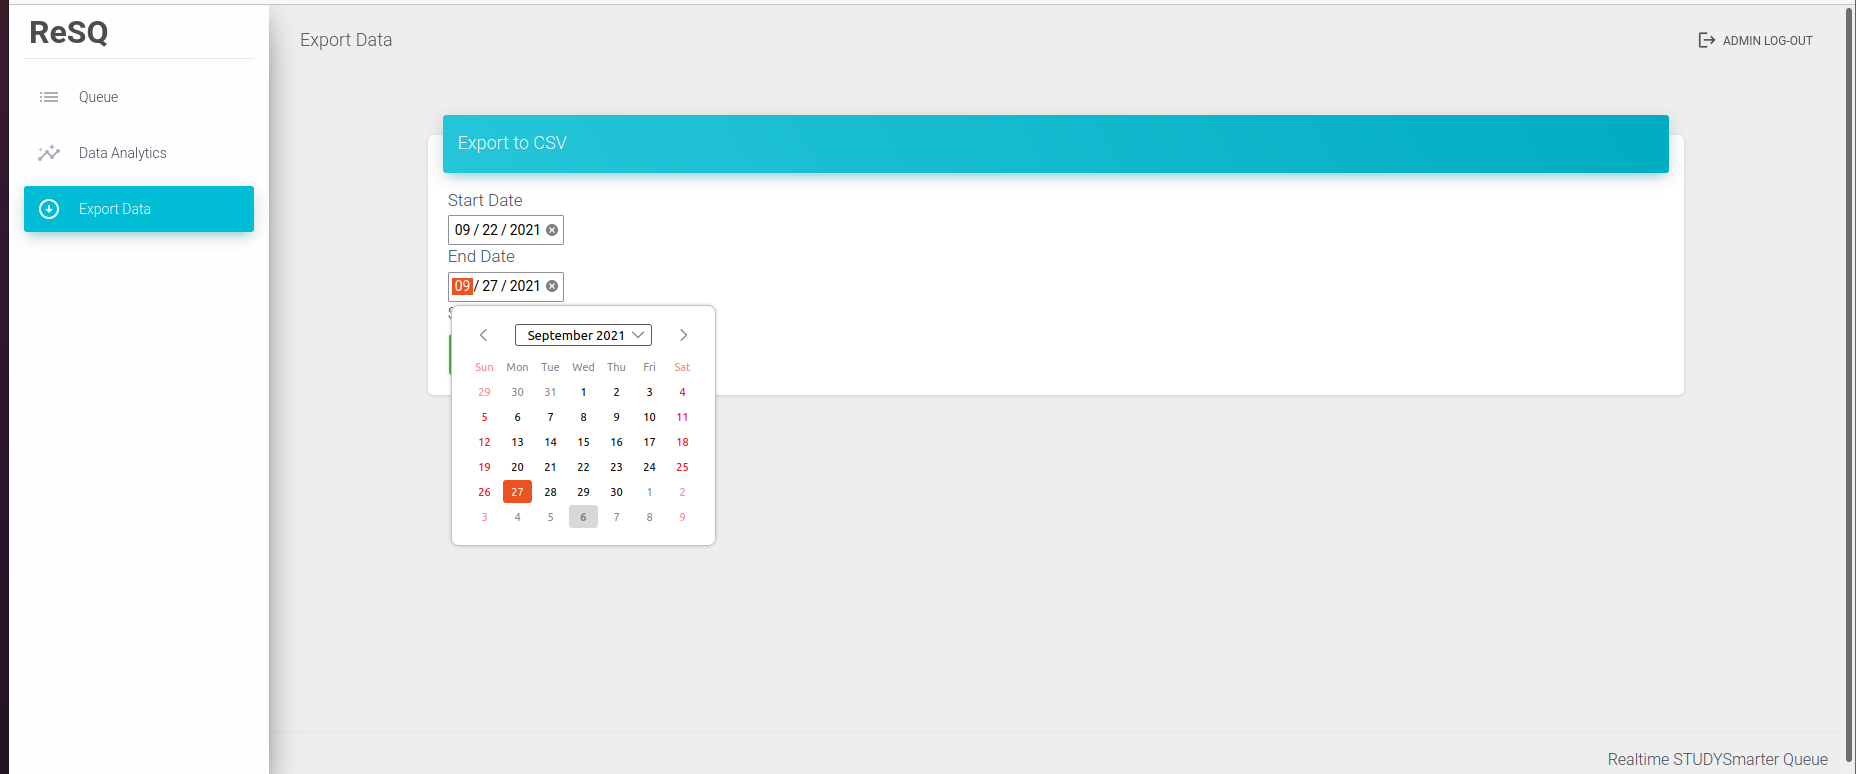
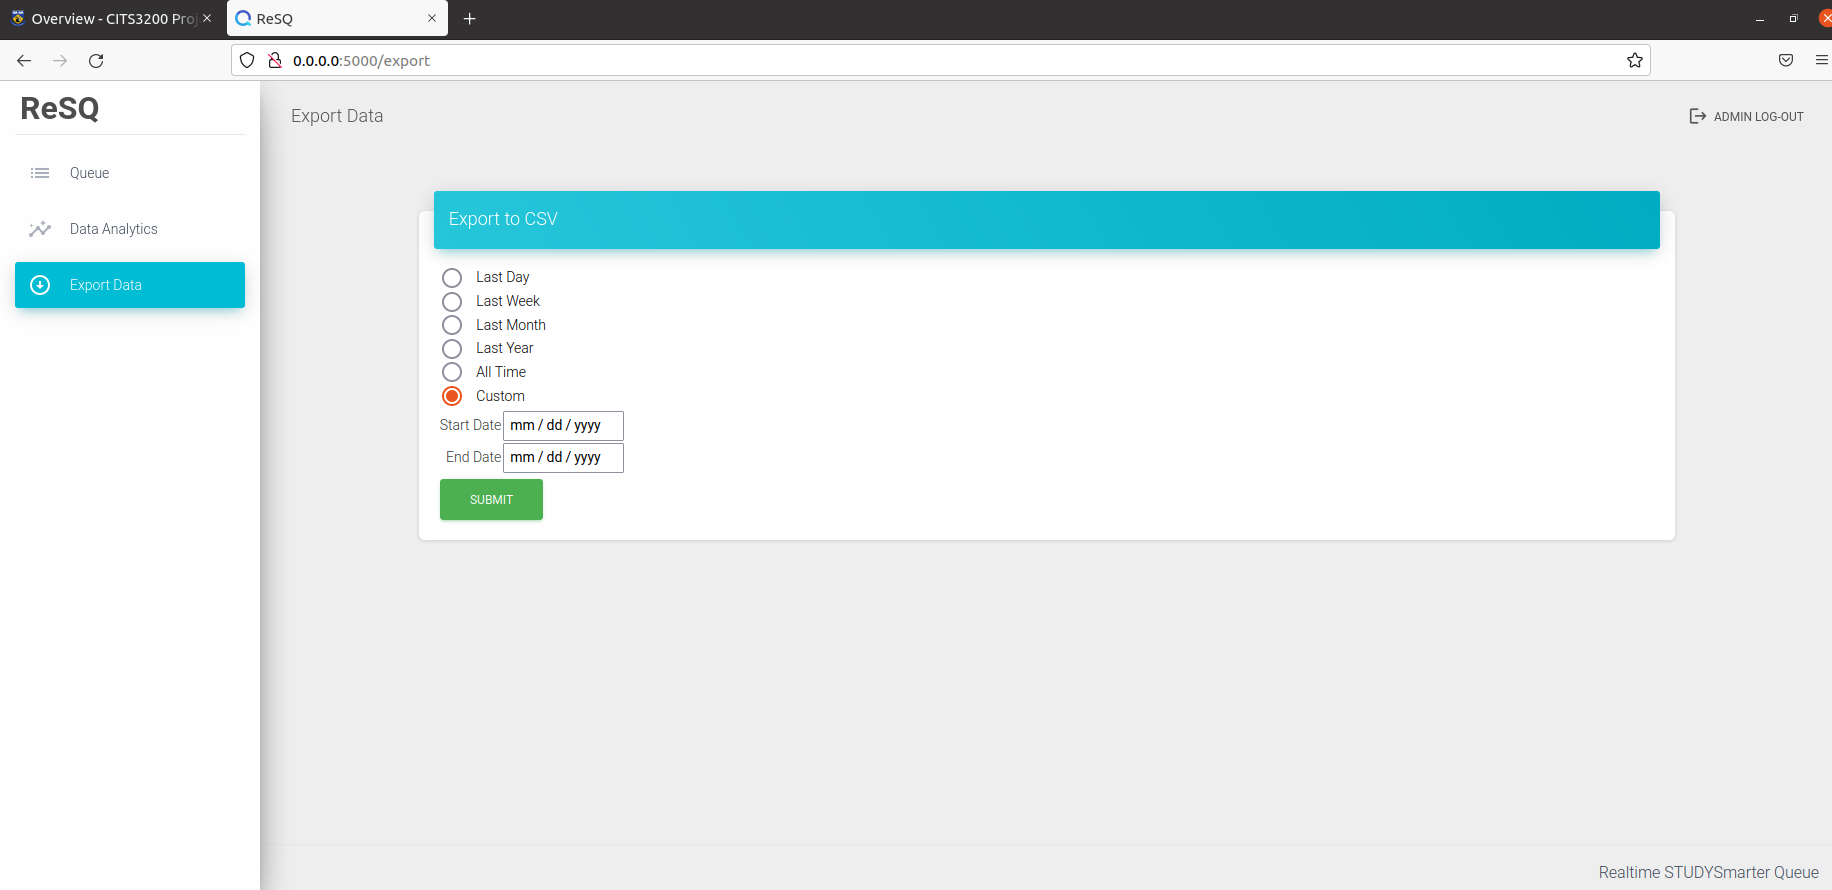
more images and instructions (#106)

diff --git a/mkdocs/docs/user/index.md b/mkdocs/docs/user/index.md
@@ -6,6 +6,14 @@ There will be 3 main tabs in the website, which are Queue, Data Analytics and Ex
 
 ## Queue
 User can manage student sessions in the Queue tab. There are 3 tables, 2 of which are STUDYSmarter queue and Librarian queue. Students will be put into either queue depending on user's choice. <br />
+### Staff management
+On the right side of the queue home page, you can see 2 small boxes saying "STUDYSmarter Team Available" and "Librarians Available". You can click the "+" and "-" icon to modify the number base on your current available staff. <br />
+
+![](instruction/limit_staff.PNG)
+
+If you try to add student to the inSession queue which exceeds your current setup for each staff type, the website will give a warning alert and require you to modify the staff number.
+
+![](instruction/error.PNG)
 
 ### Add to queue
 In order to add a student to a waiting queue, look for the "ADD TO QUEUE" button in the top right corner 
@@ -55,7 +63,8 @@ In order to generate data analytics for a chosen week: <br />
 If user wants to export data to a csv file for further data analysis:<br />
 
 - Step 1: Navigate to the 'Export Data' tab <br />
-- Step 2: Choose the 'start' and 'end' date to get the data between those days <br />
+- Step 2: There are premade options such as "Last week" or "Last Day". You can also choose "Custom" option to export data between a period of your choice<br />
+
 ![](instruction/export.PNG)
 - Step 3: Click 'Submit', then download the file
 
